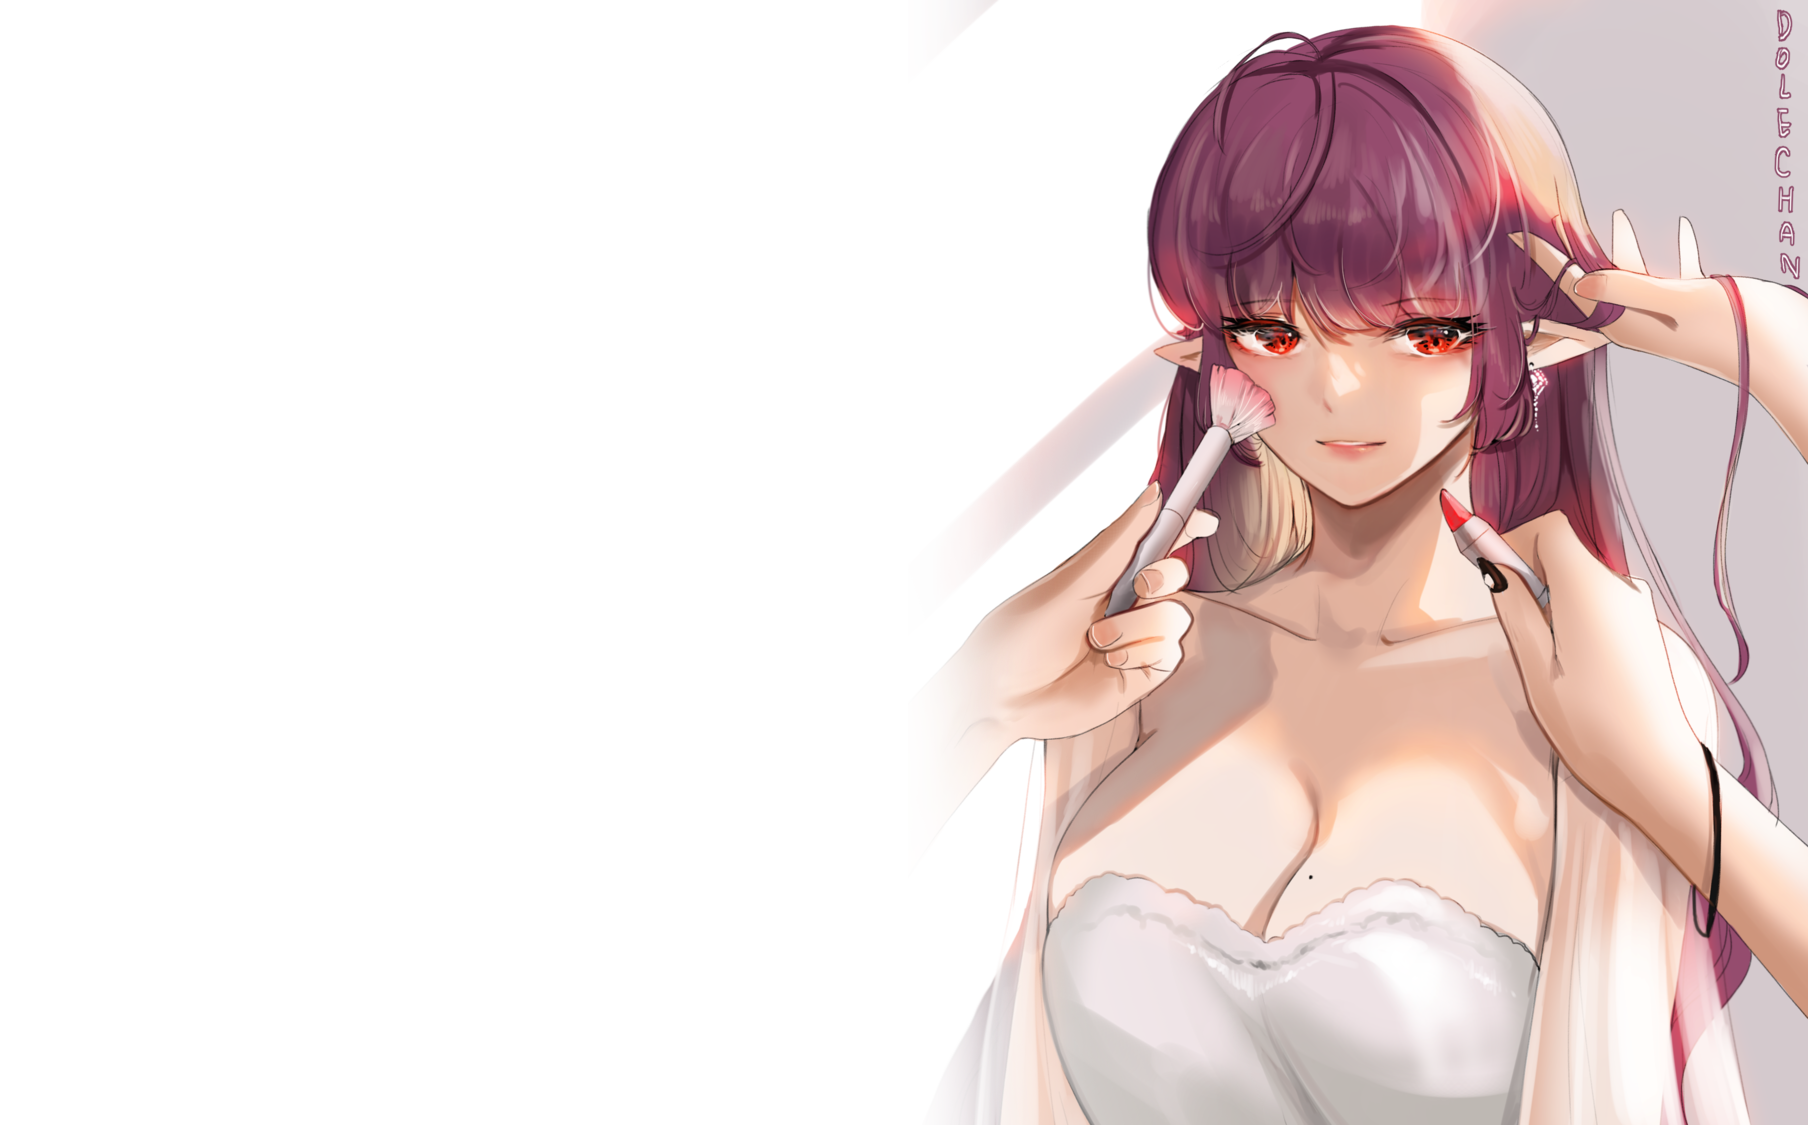
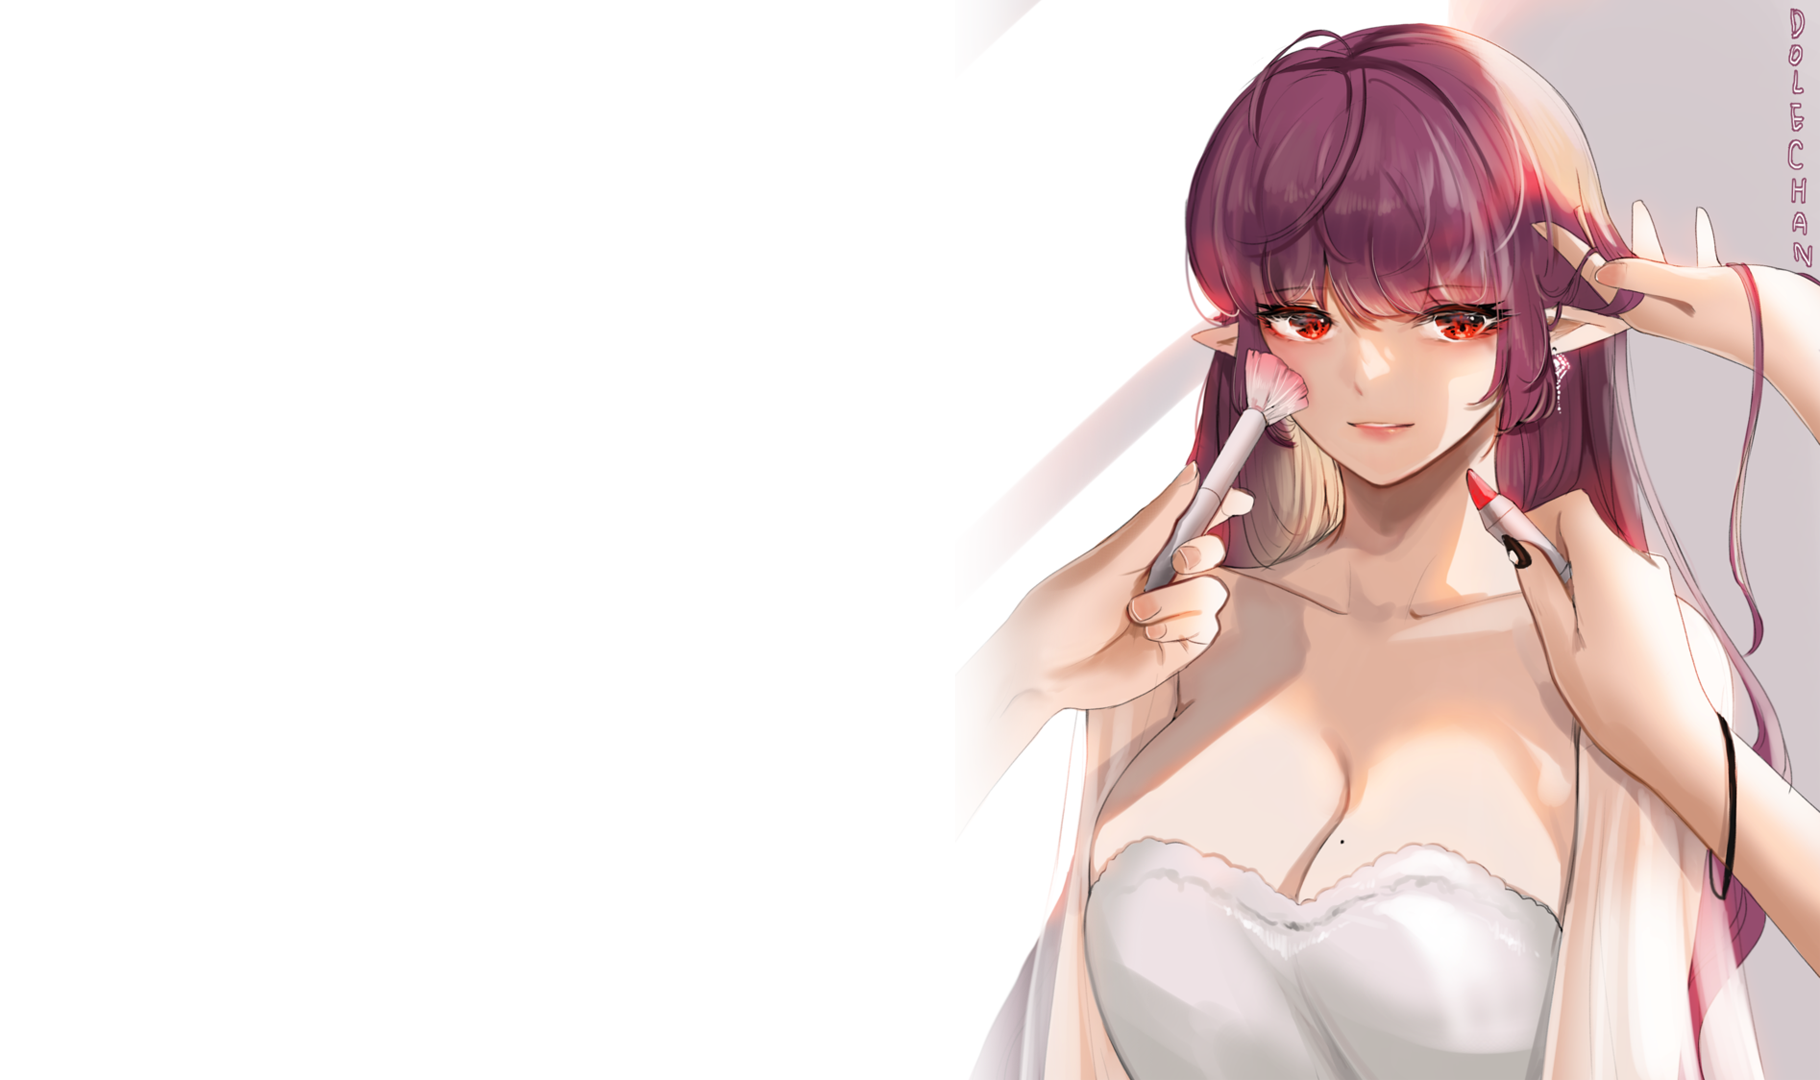
8

Changed region(s): [[0.5265, 0.0, 1.0, 1.0], [0.9602, 0.0, 0.9912, 0.0611]]

diff --git a/css/style.css b/css/style.css
@@ -3,8 +3,8 @@ html, body{ height: 100%; }
 ul{ list-style: none; } /*리스트앞에꺼 안보임*/
 
 section{
-  height: 90vh;
-  width: 100%;
+  height: 1080px;
+  width: 1820px;
   display: block;
 }
 
@@ -14,7 +14,6 @@ nav{
   width: 100%;
   height: 60px;
   background: white ;
-
 }
 
 nav ul{
@@ -30,27 +29,23 @@ nav li{
   text-align: center;
   color: white;
   font-weight: bold;
-
 }
 
 .bg{
-  background-repeat : no-repeat;
+  background: no-repeat;
   position: flex;
-  margin-top: 50px;
+  margin-top: 60px;
   float: right;
-  margin-right: -10px;
 }
 
 #section2{
-  height: 1400px;
   background-color: white;
 }
 
 .dot{
   position: flex; /*뒤로 보내*/
   text-align: center;
-  padding-top: 550px;
-  padding-bottom: -500px;
+  padding-top: 280px;
 }
 
 h1{
@@ -97,7 +92,7 @@ address{
   }
 
   .box .inner img{
-    width: 200px;
+    width: 250px;
 
   }
 }
